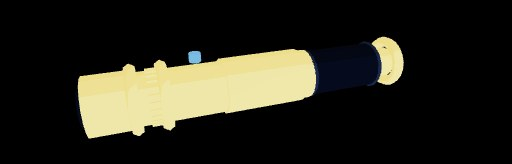
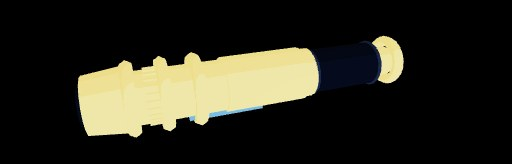
V7.7: spend the vocabulary the hilt table already had
"make the hilt designs much more creative and detailed and imaginative than
what they are now"

The table already gave every hilt its own row. What it did not do was spend
what it has. Eight extras are implemented -- crossguard, sleeve, claw,
window, hook, wings, collar, knurl -- and before this pass six hilts carried
exactly one, two carried two, and "wings" was named by nobody: a whole
feature that shipped and could not be seen on any weapon in the game.

Every hilt carries two or three now and the silhouette numbers are spread
rather than clustered. The Sentinel flares to 1.42 with seven neck rings and
a claw over wings; the Crossguard to 1.52; the Duelist's bend goes 0.22 to
0.34 so the curve reads at a glance instead of on inspection; the Consular
loses its stud, because a ceremonial hilt should have no controls anybody
can see, and gains the window that shows what it is for.

Two rows keep their restraint deliberately. The Ascetic is "a tube, nothing
on it that does not have to be on it" and the Shoto is a small object rather
than a decorated one -- a roster where every entry is maximal has no maximum.

Previews re-rendered from the new geometry.

Claude-Session: https://claude.ai/code/session_011jhWwCdTc8TatwfuGxkm96

diff --git a/src/game/Saber.js b/src/game/Saber.js
@@ -158,49 +158,73 @@ function hiltFloor(group) {
   return Number.isFinite(lo) ? lo : -0.09;
 }
 
+/**
+ * ── AND THEY ARE PUSHED FURTHER APART THAN THEY WERE ──────────────────────
+ *
+ * "make the hilt designs much more creative and detailed and imaginative than
+ * what they are now". The table already gave every hilt its own row; what it
+ * did not do was SPEND the vocabulary it has. Eight extras are implemented —
+ * crossguard, sleeve, claw, window, hook, wings, collar, knurl — and before
+ * this pass six hilts carried exactly one of them, two carried two, and
+ * `wings` was implemented and named by nobody: a whole feature that shipped
+ * and could not be seen on any weapon in the game.
+ *
+ * So every hilt carries two or three now and the silhouette numbers are spread
+ * rather than clustered: the Sentinel's shroud flares to 1.42 with seven neck
+ * rings and a claw over wings, the Crossguard's to 1.52, the Ascetic's holds
+ * at 1.02 with nothing on it, and the Duelist's bend goes 0.22 → 0.34 so the
+ * curve is a curve at a glance rather than on inspection. The Consular loses
+ * its stud — a ceremonial hilt should have no controls anybody can see — and
+ * gains the window that shows what it is for.
+ *
+ * Restraint is a design too, and two rows keep it deliberately: the Ascetic is
+ * "a tube, nothing on it that does not have to be on it" and the Shoto is a
+ * small object rather than a decorated one. A roster where every entry is
+ * maximal has no maximum.
+ */
 export const HILT_SPECS = {
   /* ── the five that shipped, now actually different from each other ──── */
   Graflex: {
     blurb: 'A camera flash, once. The one everybody copies.',
     len: 0.24, r: 0.019, emitter: 0.155,
-    shroud: [1.24, 1.05, 0.035], rings: [3, 0.014, 1.02, 0.0035],
+    shroud: [1.30, 1.05, 0.035], rings: [3, 0.014, 1.02, 0.0035],
     grip: { len: 0.062, r: 0.97, kind: 'ribbed' },
-    box: [0.018, 0.05, 0.012], studs: 2, pommel: 'cap',
-    extras: ['window'], metal: 'steel',
+    box: [0.018, 0.05, 0.012], studs: 3, pommel: 'cap',
+    extras: ['window', 'knurl', 'collar'], metal: 'steel',
   },
   Guardian: {
     // Was identical to the Graflex. It is the soldier's hilt now: no glass, no
     // neck jewellery, a longer grip and a flared cap you could club with.
     blurb: 'Plain, heavy, and made to be held in a fist all day.',
     len: 0.25, r: 0.0205, emitter: 0.155,
-    shroud: [1.16, 1.02, 0.042], rings: null,
-    grip: { len: 0.078, r: 1.0, kind: 'wrapped' },
-    box: [0.022, 0.036, 0.014], studs: 1, pommel: 'sphere',
-    extras: ['collar'], metal: 'dark',
+    shroud: [1.10, 1.14, 0.052], rings: null,
+    grip: { len: 0.086, r: 1.04, kind: 'wrapped' },
+    box: [0.024, 0.036, 0.015], studs: 1, pommel: 'sphere',
+    extras: ['collar', 'hook'], metal: 'dark',
   },
   Sentinel: {
     blurb: 'Ridged the whole way down, for a hand that never lets go.',
     len: 0.235, r: 0.018, emitter: 0.155,
-    shroud: [1.30, 0.98, 0.030], rings: [5, 0.009, 1.06, 0.0026],
-    grip: { len: 0.070, r: 0.95, kind: 'fluted' },
-    box: [0.014, 0.062, 0.010], studs: 3, pommel: 'spike',
-    extras: ['claw'], metal: 'steel',
+    shroud: [1.42, 0.94, 0.028], rings: [7, 0.008, 1.09, 0.0026],
+    grip: { len: 0.070, r: 0.93, kind: 'fluted' },
+    box: [0.013, 0.068, 0.010], studs: 4, pommel: 'spike',
+    extras: ['claw', 'wings'], metal: 'steel',
   },
   Consular: {
     blurb: 'More jewellery than weapon, and it was never meant to be drawn.',
     len: 0.245, r: 0.0186, emitter: 0.155,
-    shroud: [1.10, 1.10, 0.026], rings: [2, 0.020, 1.10, 0.0042],
-    grip: { len: 0.058, r: 0.92, kind: 'plain' },
-    box: null, studs: 1, pommel: 'ring',
-    extras: ['sleeve', 'knurl'], metal: 'gold',
+    shroud: [1.06, 1.22, 0.024], rings: [3, 0.022, 1.16, 0.0046],
+    grip: { len: 0.056, r: 0.90, kind: 'plain' },
+    box: null, studs: 0, pommel: 'ring',
+    extras: ['sleeve', 'knurl', 'window'], metal: 'gold',
   },
   Crossguard: {
     blurb: 'Vented sideways because the crystal cannot hold what it is asked to.',
     len: 0.255, r: 0.0198, emitter: 0.155,
-    shroud: [1.34, 1.00, 0.040], rings: [1, 0.016, 1.14, 0.005],
+    shroud: [1.52, 0.96, 0.046], rings: [1, 0.018, 1.20, 0.005],
     grip: { len: 0.072, r: 0.99, kind: 'ribbed' },
-    box: [0.020, 0.044, 0.013], studs: 2, pommel: 'cap',
-    extras: ['crossguard'], metal: 'dark',
+    box: [0.021, 0.048, 0.014], studs: 2, pommel: 'cap',
+    extras: ['crossguard', 'claw'], metal: 'dark',
   },
 
   /* ── five more ──────────────────────────────────────────────────────── */
@@ -210,26 +234,26 @@ export const HILT_SPECS = {
     // the way a duelling sabre does.
     blurb: 'Curved, so the point sits where the wrist points and not where the arm does.',
     len: 0.25, r: 0.0182, emitter: 0.158,
-    shroud: [1.18, 1.00, 0.030], rings: [2, 0.012, 1.04, 0.003],
-    grip: { len: 0.074, r: 0.94, kind: 'fluted', bend: 0.22 },
-    box: [0.015, 0.040, 0.011], studs: 1, pommel: 'cap',
-    extras: ['knurl'], metal: 'gold',
+    shroud: [1.22, 0.98, 0.028], rings: [2, 0.012, 1.04, 0.003],
+    grip: { len: 0.080, r: 0.92, kind: 'fluted', bend: 0.34 },
+    box: [0.015, 0.040, 0.011], studs: 1, pommel: 'ring',
+    extras: ['knurl', 'sleeve'], metal: 'gold',
   },
   Archaic: {
     blurb: 'Older than the Order that carries it. The crystal shows through.',
     len: 0.26, r: 0.021, emitter: 0.160,
-    shroud: [1.06, 1.06, 0.048], rings: [4, 0.011, 1.00, 0.0044],
-    grip: { len: 0.066, r: 1.02, kind: 'wrapped' },
+    shroud: [1.02, 1.12, 0.056], rings: [5, 0.011, 0.98, 0.0048],
+    grip: { len: 0.066, r: 1.04, kind: 'wrapped' },
     box: null, studs: 0, pommel: 'ring',
-    extras: ['window', 'collar'], metal: 'dark',
+    extras: ['window', 'collar', 'claw'], metal: 'dark',
   },
   Warden: {
     blurb: 'Two boxes, four studs and a cap you could drive a nail with.',
     len: 0.265, r: 0.0215, emitter: 0.162,
-    shroud: [1.12, 1.08, 0.044], rings: [2, 0.016, 1.06, 0.005],
-    grip: { len: 0.080, r: 1.0, kind: 'ribbed' },
-    box: [0.026, 0.056, 0.016], studs: 3, pommel: 'sphere',
-    extras: ['hook', 'collar'], metal: 'steel',
+    shroud: [1.08, 1.18, 0.050], rings: [2, 0.017, 1.08, 0.005],
+    grip: { len: 0.084, r: 1.02, kind: 'ribbed' },
+    box: [0.028, 0.062, 0.017], studs: 4, pommel: 'sphere',
+    extras: ['hook', 'collar', 'wings'], metal: 'steel',
   },
   Ascetic: {
     // The belt hook is not a decoration and it is the only thing on this hilt
